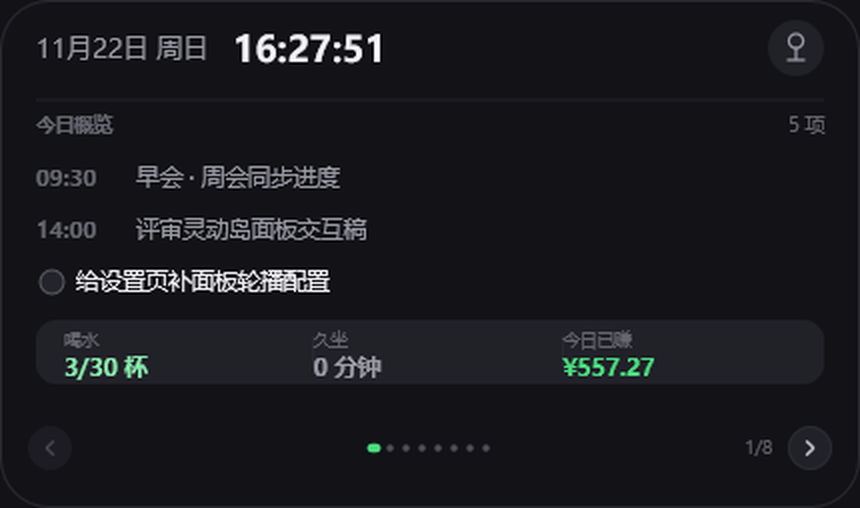
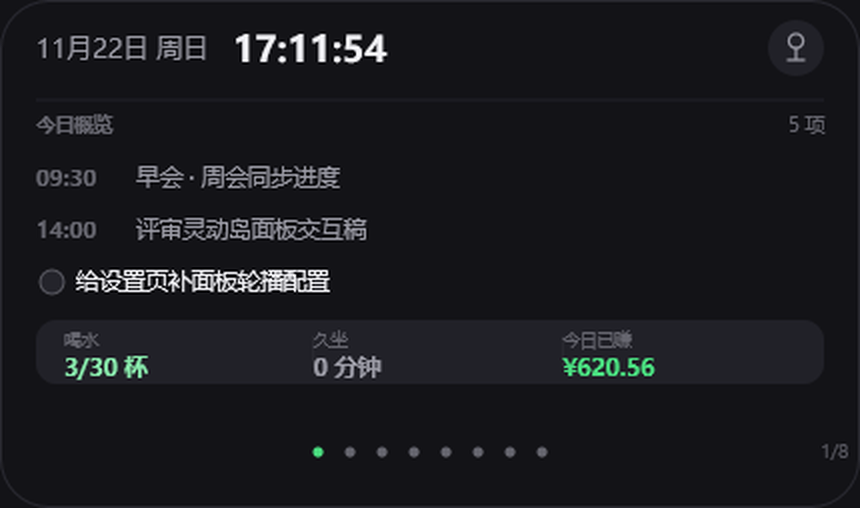
feat: 底部分页圆点改为 Mac Dock 式悬停放大 + 点击跳页，删左右箭头 (v0.16.8)

diff --git a/src/ui.rs b/src/ui.rs
@@ -65,9 +65,8 @@ const RED: u32 = 0xF4554F;
 #[derive(Clone, PartialEq)]
 pub enum HitId {
     Pill,
-    /// 底部左右翻页箭头
-    PagePrev,
-    PageNext,
+    /// 底部分页圆点：悬停放大，点击直接跳到对应页
+    PageDot(usize),
     Collapse,
     /// 面板右上角图钉：锁定面板，遮挡时不再自动收起
     Pin,
@@ -1513,85 +1512,54 @@ fn color_pct(pct: f64) -> u32 {
     }
 }
 
-// ---- 底部翻页条：左箭头 · 页码圆点 · 右箭头 ----
+// ---- 底部分页圆点：Mac Dock 式悬停放大 + 点击直接跳页 ----
 
-const PAGER_BTN: f32 = 22.0;
-
-/// 底部一行：左侧 <、中间页点指示、右侧 >；首尾页箭头自动禁用（不再靠点击整块翻页）
+/// 底部一排页点：当前页主题色实心常亮；鼠标悬停的点连同左右邻居一起放大（波浪感），
+/// 点一下直接跳到对应页。单页时只保留隐私声明。
 fn draw_pager(app: &App, cv: &mut Canvas, w: f32, h: f32, idx: usize, n: usize, alpha: f32, hits: &mut Vec<Hit>) {
-    let cy = h - s(30.0);
+    let cy = h - s(28.0);
 
     if n <= 1 {
-        // 单页时至少保留隐私声明
         cv.text_ex(0.0, cy - s(10.0), w, s(20.0), "零收集 · 零上传 · 零通讯", 8.5, W_NORMAL, TXT3, alpha * 0.85, 1, 1);
         return;
     }
 
-    let bs = s(PAGER_BTN);
-    let by = cy - bs / 2.0;
-    let lx = s(14.0);
-    let rx = w - s(14.0) - bs;
-
-    let can_prev = idx > 0;
-    let can_next = idx + 1 < n;
-
-    pager_btn(cv, lx, by, bs, true, can_prev, app.anims.hover_p(&HitId::PagePrev), alpha);
-    if can_prev {
-        push_hit(hits, HitId::PagePrev, lx - s(3.0), by - s(5.0), bs + s(6.0), bs + s(10.0));
-    }
-
-    pager_btn(cv, rx, by, bs, false, can_next, app.anims.hover_p(&HitId::PageNext), alpha);
-    if can_next {
-        push_hit(hits, HitId::PageNext, rx - s(3.0), by - s(5.0), bs + s(6.0), bs + s(10.0));
-    }
-
-    // 页点：纯指示，不再可点
-    let gap = s(8.0);
+    let gap = s(16.0);
     let total = gap * (n as f32 - 1.0);
     let x0 = (w - total) / 2.0;
+    let base_r = s(2.6);
+    let amp = s(3.6);
+
+    // 波浪中心 = 悬停进度最高的点；进出都由弹簧进度驱动，平滑回落
+    let (mut center, mut cp) = (None, 0.0f32);
     for i in 0..n {
-        cv.circle(x0 + gap * i as f32, cy, s(1.8), TXT3, alpha * 0.75);
+        let v = app.anims.hover_p(&HitId::PageDot(i));
+        if v > cp {
+            cp = v;
+            center = Some(i);
+        }
     }
 
-    // 当前页指示条跟着翻页进度滑动（而不是瞬移），与页面位移同步
-    let p = app.anims.page.v.clamp(0.0, 1.0);
-    let from = app.anims.page_from.min(n - 1) as f32;
-    let pos = if p < 0.999 { from + (idx as f32 - from) * p } else { idx as f32 };
-    let px = x0 + gap * pos;
-    cv.rrect(px - s(3.5), cy - s(2.2), s(7.0), s(4.4), s(2.2), crate::theme::main(), alpha);
+    for i in 0..n {
+        let p = match center {
+            Some(c) if cp > 0.004 => {
+                let d = (i as i32 - c as i32).abs();
+                let falloff = match d { 0 => 1.0, 1 => 0.55, 2 => 0.2, _ => 0.0 };
+                cp * falloff
+            }
+            _ => 0.0,
+        };
+        let x = x0 + gap * i as f32;
+        let r = base_r + amp * p;
+        let col = if i == idx { crate::theme::main() } else { mix(TXT3, TXT, p) };
+        cv.circle(x, cy, r, col, alpha);
+        // 每个点的命中区：贴合间距，避免相邻点误触
+        push_hit(hits, HitId::PageDot(i), x - gap / 2.0, cy - s(12.0), gap, s(24.0));
+    }
 
-    // 页码贴在右箭头左侧
+    // 页码淡字贴在右侧（箭头已移除）
     let pg = format!("{}/{}", idx + 1, n);
-    let pw = text_w(&pg, 8.5);
-    cv.text_ex(rx - s(10.0) - pw, cy - s(10.0), pw + s(2.0), s(20.0), &pg, 8.5, W_NORMAL, TXT3, alpha * 0.9, 2, 1);
-}
-
-/// 翻页小按钮：圆形，悬停进度平滑提亮，禁用时只留极暗底 + 低对比箭头
-fn pager_btn(cv: &mut Canvas, x: f32, y: f32, sz: f32, left: bool, enabled: bool, hover: f32, alpha: f32) {
-    let r = sz / 2.0;
-    let h = hover.clamp(0.0, 1.0);
-    if !enabled {
-        // 禁用：仅留一层极淡底，箭头降到 55% 对比，看得出位置但明确不可点
-        cv.rrect(x, y, sz, sz, r, 0x1D1D24, alpha * 0.85);
-    } else {
-        cv.rrect(x, y, sz, sz, r, mix(ROW, ROW2, h), alpha);
-        cv.rrect_stroke(x + 0.5, y + 0.5, sz - 1.0, sz - 1.0, r, mix(BORDER, 0x3A3A45, h), alpha, s(1.0));
-    }
-
-    let c = if !enabled { TXT3 } else { mix(0xC2C2CC, TXT, h) };
-    let a = if enabled { alpha } else { alpha * 0.55 };
-
-    let mx = x + sz / 2.0;
-    let my = y + sz / 2.0;
-    let d = s(3.6);
-    let dx = s(1.9);
-    if left {
-        cv.line(mx + dx, my - d, mx - dx, my, c, a, s(1.4));
-        cv.line(mx - dx, my, mx + dx, my + d, c, a, s(1.4));
-    } else {
-        cv.line(mx - dx, my - d, mx + dx, my, c, a, s(1.4));
-        cv.line(mx + dx, my, mx - dx, my + d, c, a, s(1.4));
-    }
+    cv.text_ex(w - s(34.0), cy - s(10.0), s(28.0), s(20.0), &pg, 8.5, W_NORMAL, TXT3, alpha * 0.8, 2, 1);
 }
 
 

diff --git a/src/app.rs b/src/app.rs
@@ -1896,17 +1896,10 @@ fn click(h: &HitId) {
                 app.leave_at = None;
                 app.apply_vis();
             }
-            // 底部左右箭头翻页：到边界即停，不再循环
-            HitId::PagePrev => {
-                if app.page > 0 {
-                    let p = app.page - 1;
-                    go_page(app, p);
-                }
-            }
-            HitId::PageNext => {
-                if app.page + 1 < n {
-                    let p = app.page + 1;
-                    go_page(app, p);
+            // 底部分页圆点：点哪个跳哪个（点当前页无动作）
+            HitId::PageDot(p) => {
+                if *p < n {
+                    go_page(app, *p);
                 }
             }
             HitId::Collapse => {

diff --git a/README.md b/README.md
@@ -8,7 +8,7 @@
 
 ## 截图
 
-以下截图均由本机运行的 **v0.16.7** 实体程序导出（用程序自带的 `--preview* / --demo` 离屏渲染参数，绘制路径与实机完全一致，非设计稿）。日程 / 待办 / 剪贴板为演示数据；薪资、作息、自选股均为泛化示例值，不含作者隐私。
+以下截图均由本机运行的 **v0.16.8** 实体程序导出（用程序自带的 `--preview* / --demo` 离屏渲染参数，绘制路径与实机完全一致，非设计稿）。日程 / 待办 / 剪贴板为演示数据；薪资、作息、自选股均为泛化示例值，不含作者隐私。
 
 ### 胶囊：时间到秒 + 打工人情报轮播
 
@@ -61,7 +61,7 @@
 
 ### 展开面板（单击胶囊展开）
 
-8 个页面可自由开关、调整顺序，底部箭头翻页（滚轮滚动当前页长内容）：
+8 个页面可自由开关、调整顺序，底部一排页点可直接点击跳转、悬停放大（滚轮滚动当前页长内容）：
 
 | 页面 | 能力 |
 | --- | --- |
@@ -139,7 +139,7 @@
 | 单击胶囊 | 向下展开下拉面板 |
 | 点面板右上角图钉 | 锁定 / 解除锁定面板（锁定后遮挡也不收起） |
 | 点面板头部日期时间 | 收起为胶囊（同时解除图钉锁定） |
-| 点面板底部 ◀ ▶ | 翻页（滚轮滚动当前页长内容，列表页带细滚动条） |
+| 点面板底部圆点 | 直接跳到对应页，悬停时圆点放大（滚轮滚动当前页长内容，列表页带细滚动条） |
 | 鼠标悬停小黑条 | 临时显示胶囊，移开自动收回 |
 | 托盘左键 | 展开 / 收起 |
 | 托盘右键 | 工作模式 / 盯盘模式切换、显示 / 隐藏、设置、退出 |

diff --git a/CHANGELOG.md b/CHANGELOG.md
@@ -1,5 +1,12 @@
 # Changelog
 
+## 0.16.8 — 2026-11-22  (底部分页圆点改为 Mac Dock 式：悬停放大 + 点击跳页)
+
+- 底部翻页条去掉左右箭头，8 个页点从「纯指示小灰点」升级为**可交互导航**：点哪个点直接跳到对应页，走原有滑动动画不瞬移。
+- 页点加大（间距 8→16px、半径 1.8→2.6px）；鼠标悬停时该点放大到 6.2px，左右邻居按 0.55 / 0.2 权重连带放大，形成 Mac Dock 般的波浪反馈，移开后由弹簧平滑回落。
+- 当前页圆点改为**主题色实心常亮**（原来是一条跟着翻页进度滑动的小横条），悬停非当前页时由灰提亮到白色，两者区分清晰。
+- 保留右侧 `1/8` 页码与单页时的「零收集 · 零上传 · 零通讯」声明；滚轮翻页功能不变。
+
 ## 0.16.7 — 2026-11-22  (提醒按钮文案与久坐提醒显示对齐阈值)
 
 - 喝水提醒的确认按钮文案由「喝好了」统一改为**「喝一杯」**（胶囊 + 面板顶部提醒条），久坐保持**「起来走走」**；点击即记账（喝水 +1 杯、久坐重置计时起点）。
